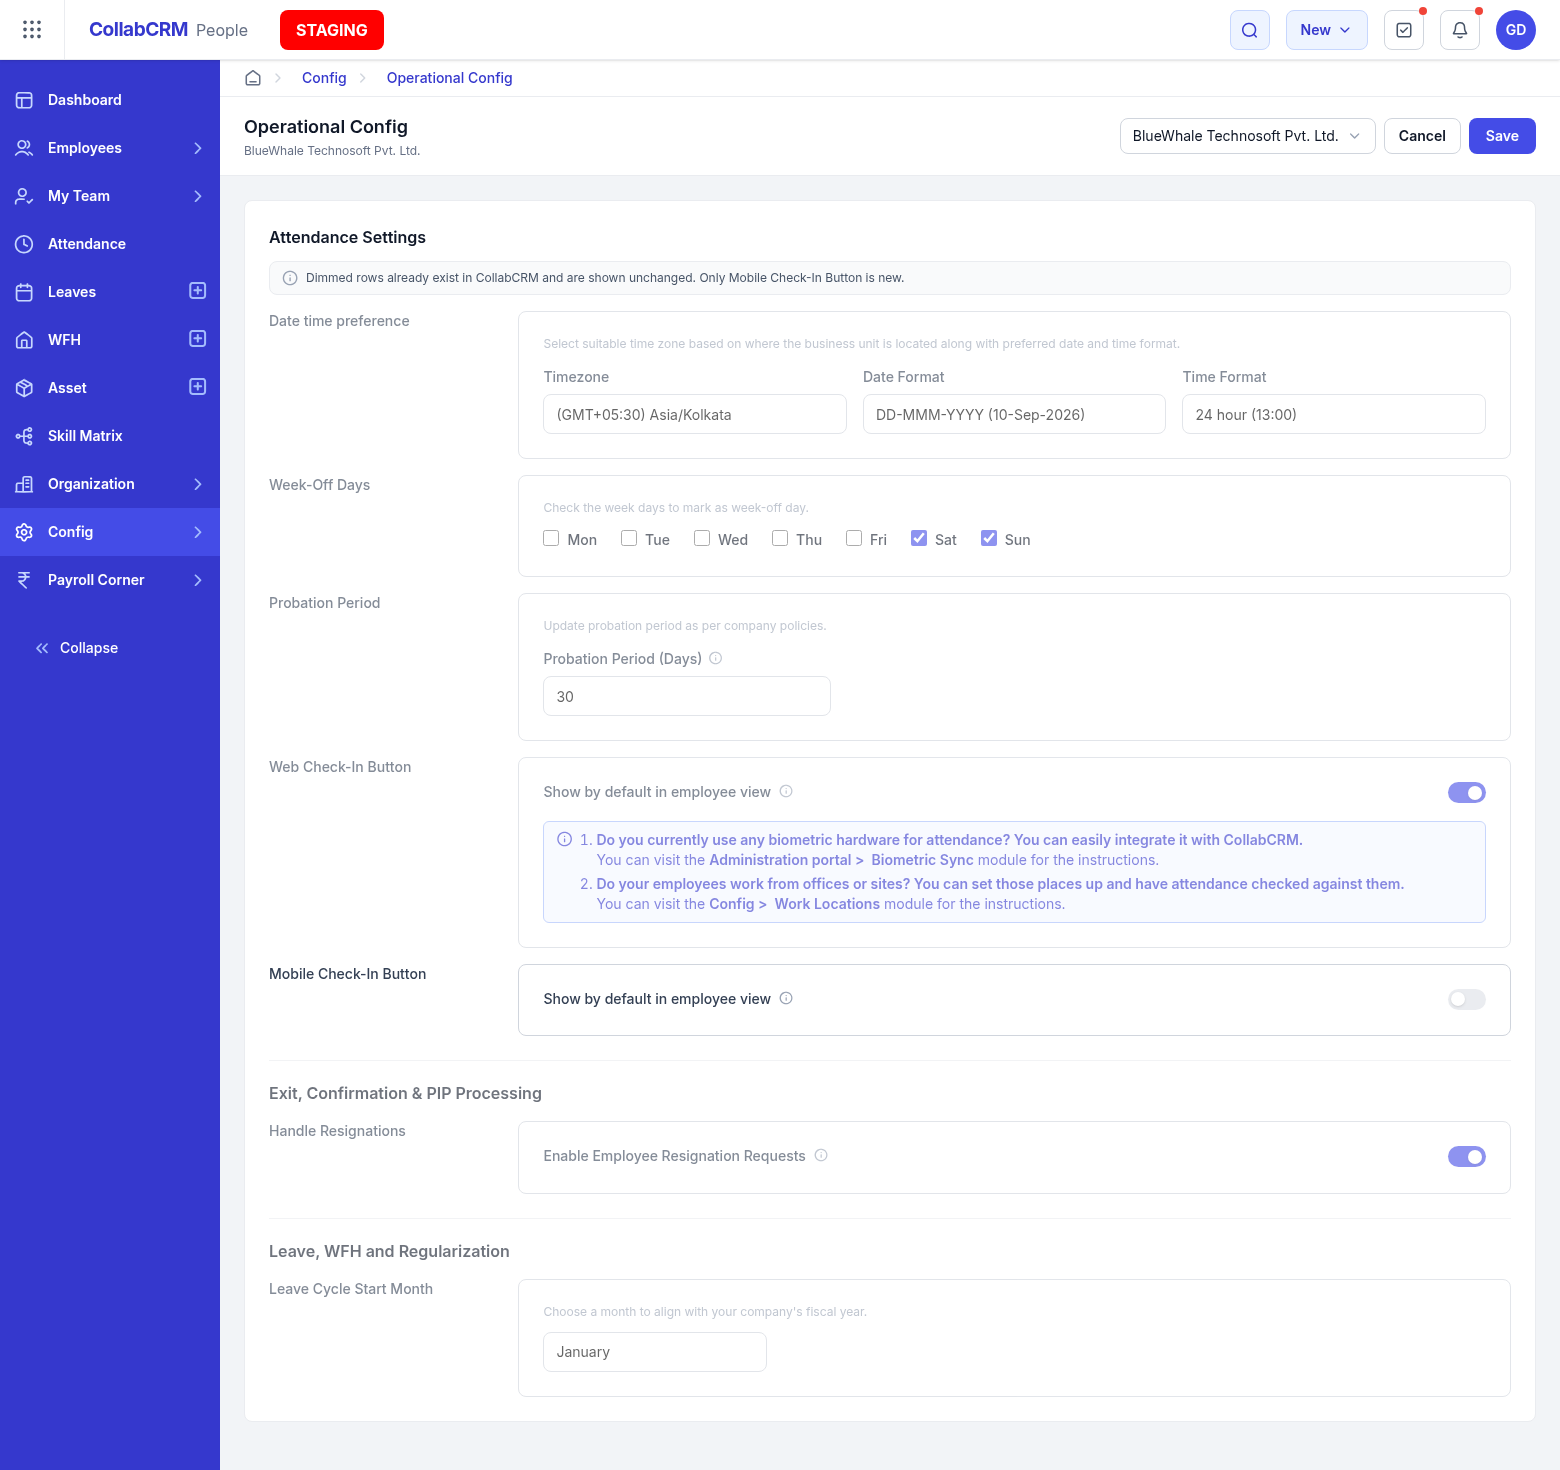
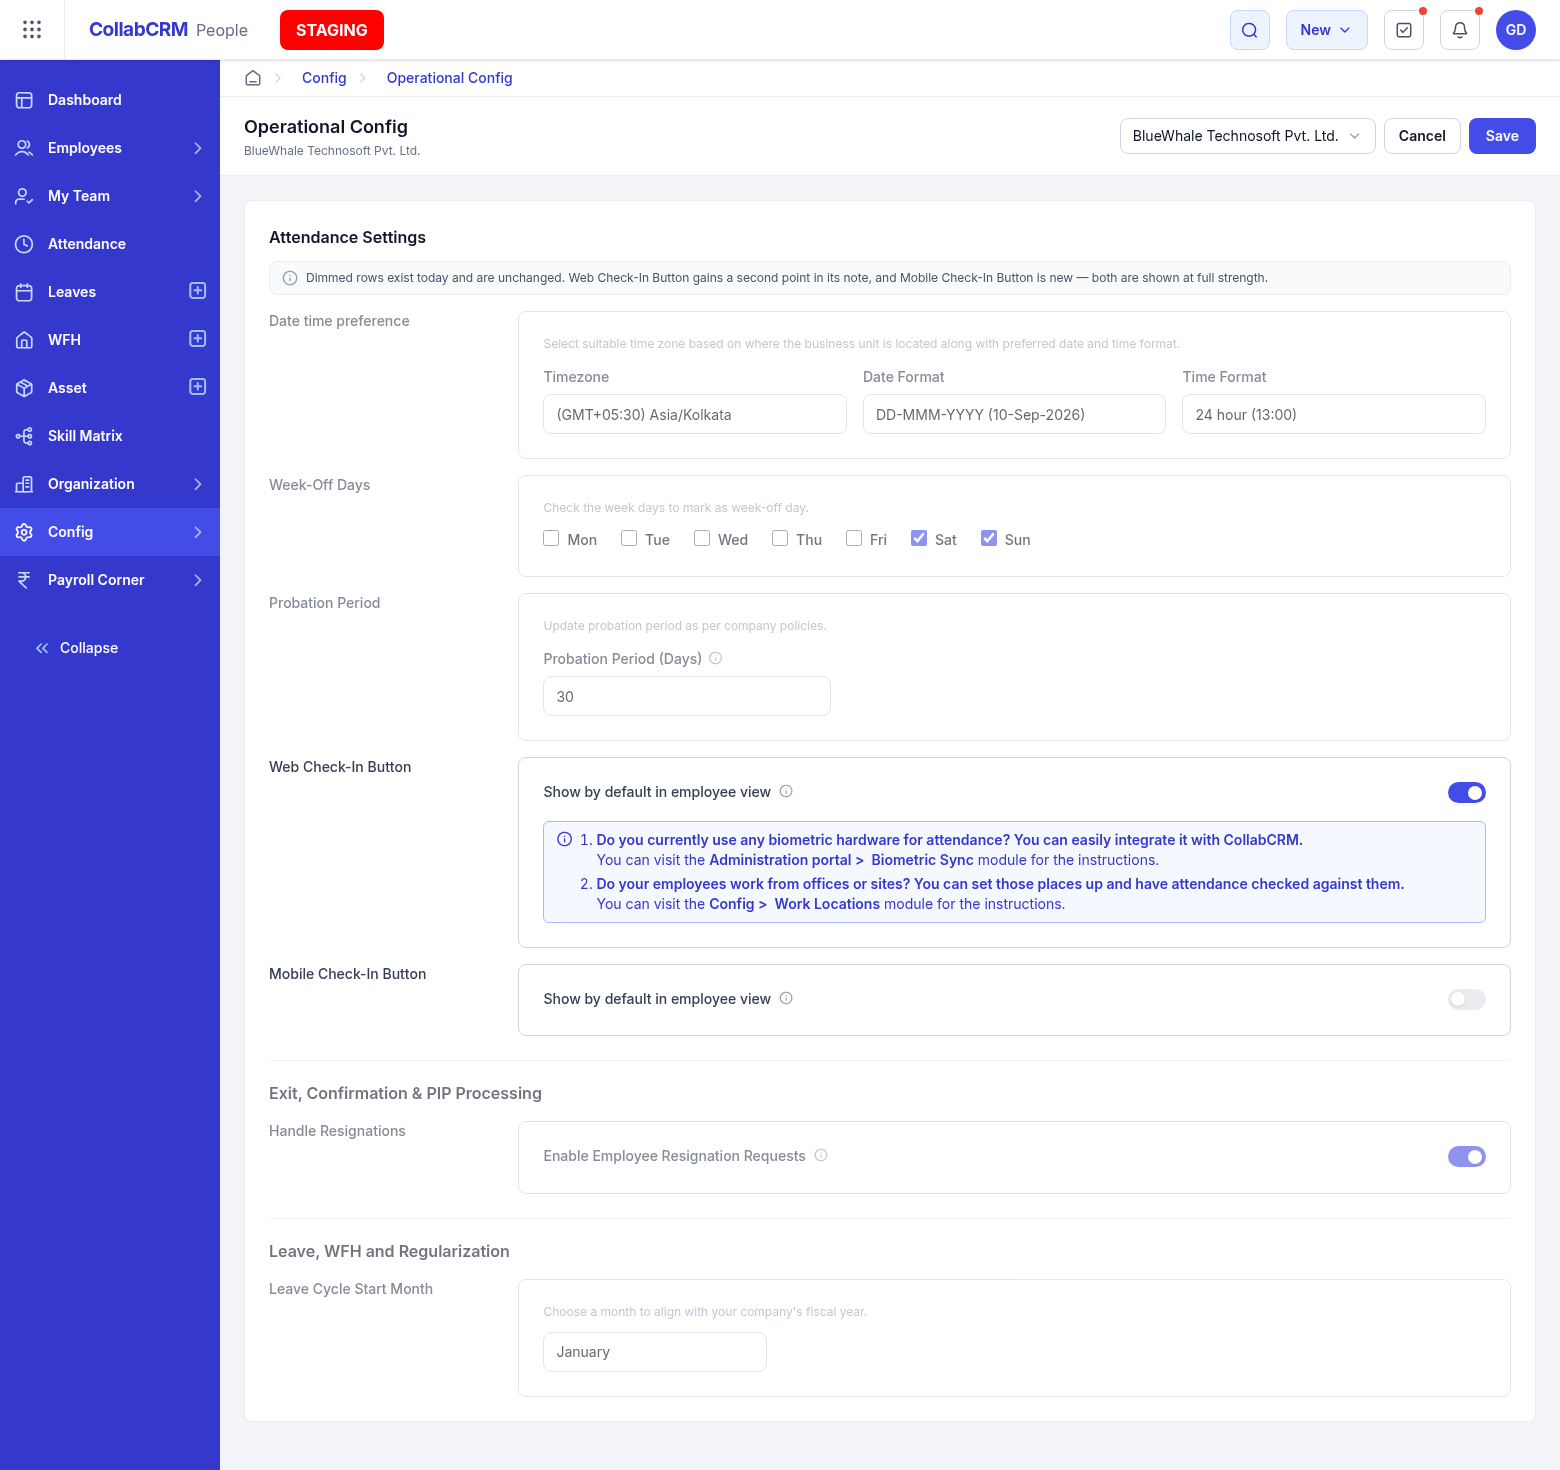
refactor: remove attendance request flow and introduce PeoplePanel for viewing zone assignments

Changed region(s): [[0.3692, 0.5204, 0.8923, 0.6429], [0.2462, 0.1837, 0.5846, 0.2143], [0.9231, 0.5204, 0.9538, 0.551]]

diff --git a/src/screens/OperationalConfig.jsx b/src/screens/OperationalConfig.jsx
@@ -45,7 +45,8 @@ export default function OperationalConfig() {
           <div className="mt-3 rounded-lg border border-gray-200 bg-gray-50 px-3 py-2 flex items-center gap-2">
             <Icon name="info-circle" className="text-base text-gray-400" />
             <p className="2xl:text-xs text-xxs text-gray-600">
-              Dimmed rows already exist in CollabCRM and are shown unchanged. Only Mobile Check-In Button is new.
+              Dimmed rows exist today and are unchanged. Web Check-In Button gains a second point in
+              its note, and Mobile Check-In Button is new — both are shown at full strength.
             </p>
           </div>
 
@@ -86,9 +87,8 @@ export default function OperationalConfig() {
             </ConfigRow>
           </Existing>
 
-          {/* Web Check-In Button — existing, shown in full because the new row sits under it */}
-          <Existing>
-            <ConfigRow id="web_check_in" title="Web Check-In Button">
+          {/* Not dimmed: the row exists today, but point 2 of its note is new */}
+          <ConfigRow id="web_check_in" title="Web Check-In Button">
               <ConfigToggle id="toggleAll" label="Show by default in employee view"
                             checked={webCheckIn} onChange={setWebCheckIn} />
               <InfoNote>
@@ -122,8 +122,7 @@ export default function OperationalConfig() {
                   </li>
                 </ol>
               </InfoNote>
-            </ConfigRow>
-          </Existing>
+          </ConfigRow>
 
           <ConfigRow id="mobile_check_in" title="Mobile Check-In Button">
             <ConfigToggle id="toggleMobile" label="Show by default in employee view"
